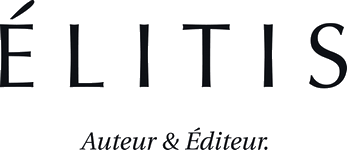
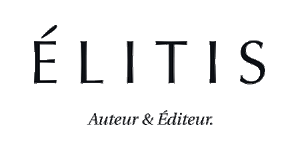
Change brands image size on home page

diff --git a/webroot/js/page/page.js b/webroot/js/page/page.js
@@ -41,8 +41,16 @@ function hideLearnMore() {
 
 function showLearnMore() {
     $('a.learn-more').click(function(){
+        $(this).next('p').css('padding-top', '3%');
         $(this).next('p').slideToggle();
         return false;
+    });
+}
+
+function setTextLearnMore(text) {
+    var links = $('a.learn-more');
+    links.each(function(){
+        $(this).text(text);
     });
 }
 
@@ -55,6 +63,7 @@ $(document).ready(function() {
         changeModalDialog();
     });
 
+    setTextLearnMore("En savoir plus sur cette marque");
     hideLearnMore();
     showLearnMore();
 });

diff --git a/webroot/css/page/index.css b/webroot/css/page/index.css
@@ -63,7 +63,7 @@
     border: 0px;
     margin: 0 3% 15% 3%;
     text-align: justify;
-    background-color: rgba(255, 255, 255, 0.4);
+    background-color: rgba(255, 255, 255, 0.5);
     font-size: 1.2em;
 }
 
@@ -75,6 +75,10 @@
     font-size: 1.6em;
     text-align: center;
     margin: 8% 0 8% 0;
+}
+
+#brands .learn-more {
+    color: #000000;
 }
 
 /*

diff --git a/view/page/index.php b/view/page/index.php
@@ -32,8 +32,8 @@
                             </h3>
                             <h4><a href="#">Découvrir la gamme</a></h4>
                             <a href="" class="learn-more">
-                                <i class="fa fa-arrow-right"></i>
-                                En savoir plus sur cette marque
+                                <i class="fa fa-plus"></i>
+                                
                             </a>
                             <p class="text-black" style="display:none;">
                                 Farrow & Ball fabrique de la peinture dans le Dorset, bain par bain, depuis 1946, et reste l'une des rares entreprises qui continue à fabriquer une gamme complète de finitions traditionnelles et modernes de la plus haute qualité. Toutes leurs peintures sont respectueuses de l'environnement et sont conformes à la législation environnementale européenne la plus récente. <br>
